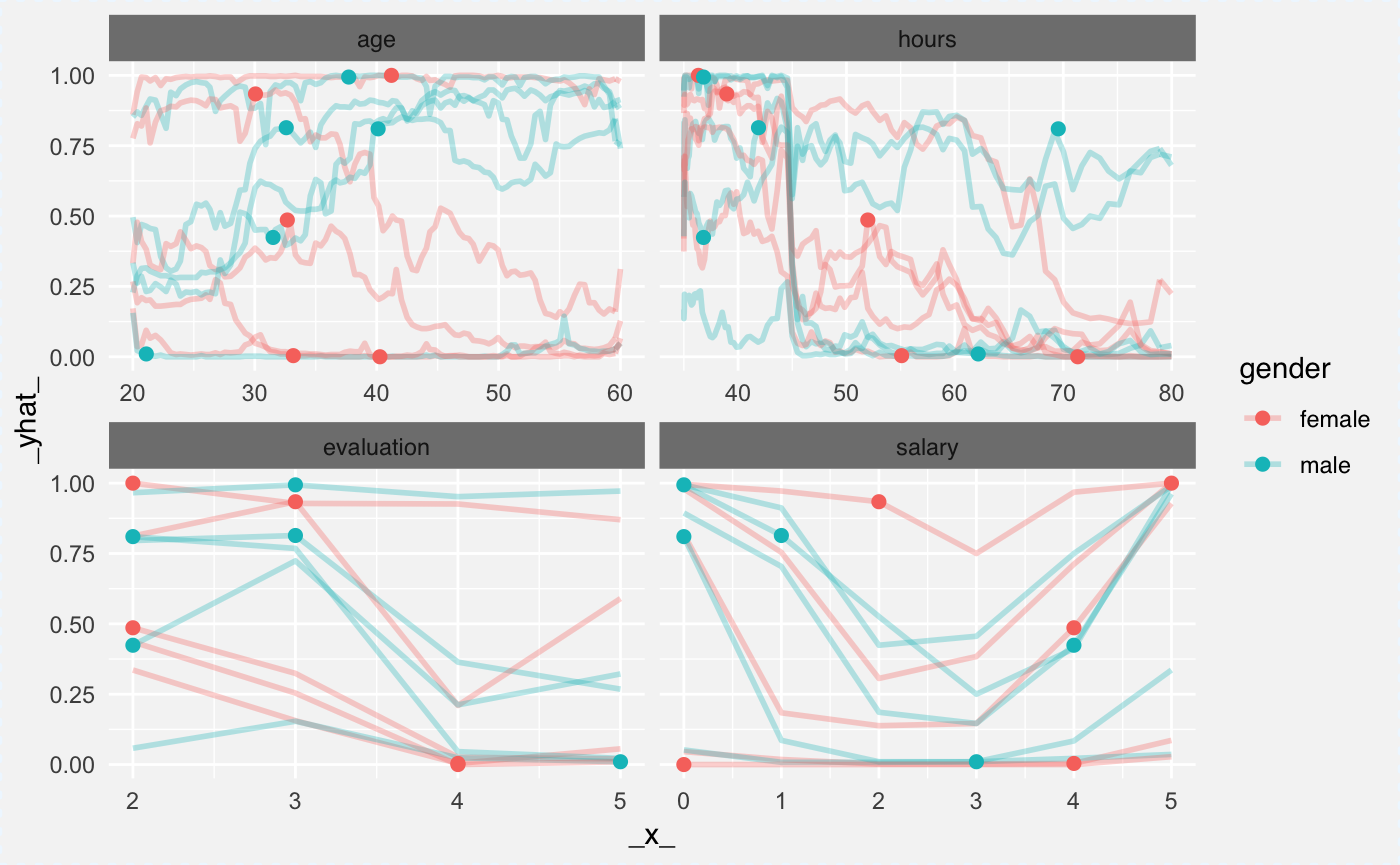
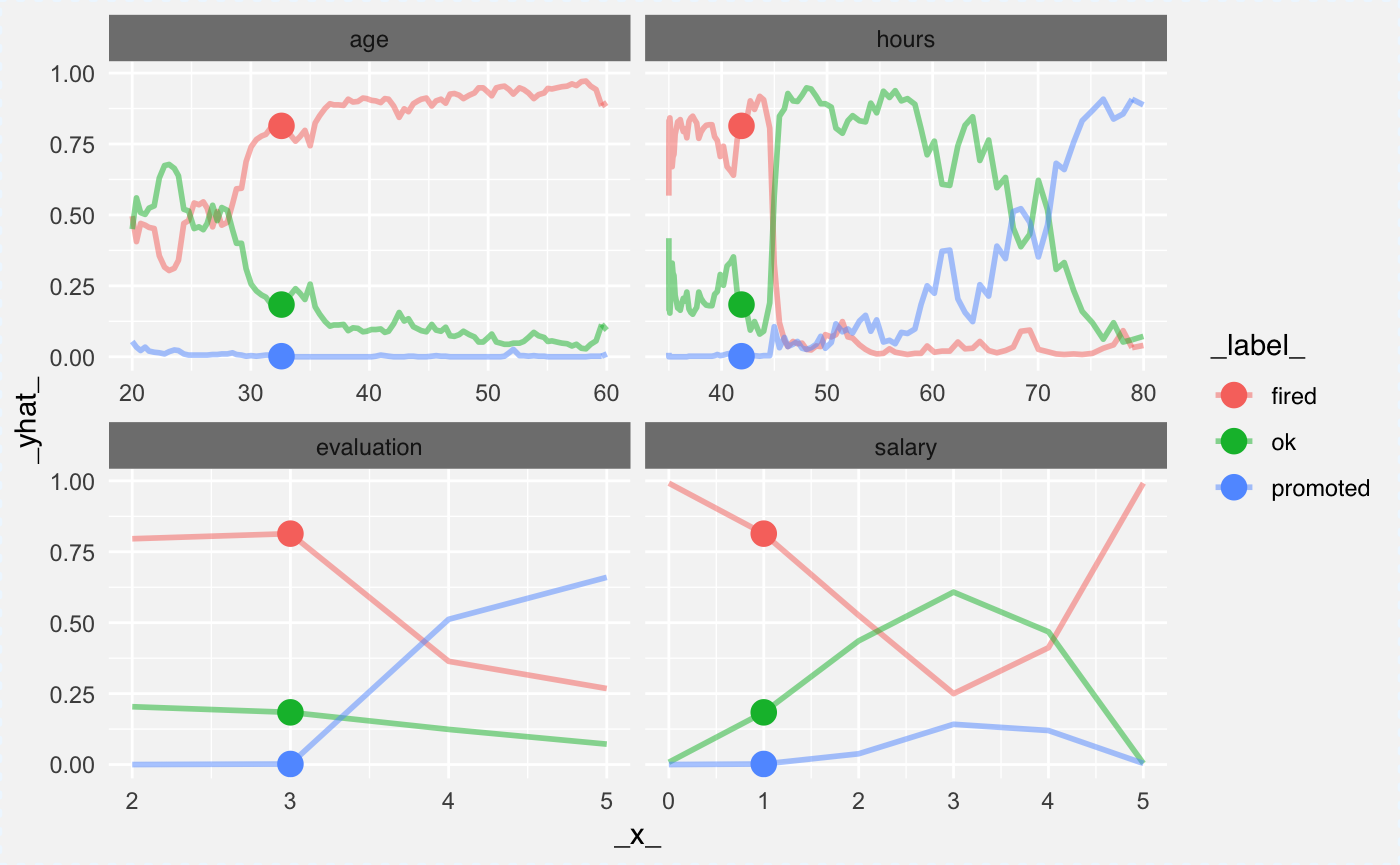
a nice story

diff --git a/docs/articles/ceteris_paribus_HR.html b/docs/articles/ceteris_paribus_HR.html
@@ -79,7 +79,7 @@
       <h1>Ceteris Paribus Plots for classification</h1>
                         <h4 class="author">Przemyslaw Biecek</h4>
             
-            <h4 class="date">2018-08-04</h4>
+            <h4 class="date">2018-08-05</h4>
       
       
       <div class="hidden name"><code>ceteris_paribus_HR.Rmd</code></div>
@@ -109,37 +109,54 @@
 <a class="sourceLine" id="cb3-5" data-line-number="5">model &lt;-<span class="st"> </span><span class="kw"><a href="http://www.rdocumentation.org/packages/randomForest/topics/randomForest">randomForest</a></span>(status <span class="op">~</span><span class="st"> </span>gender <span class="op">+</span><span class="st"> </span>age <span class="op">+</span><span class="st"> </span>hours <span class="op">+</span><span class="st"> </span>evaluation <span class="op">+</span><span class="st"> </span>salary, <span class="dt">data =</span> HR)</a></code></pre></div>
 <p>By default the <code><a href="http://www.rdocumentation.org/packages/randomForest/topics/predict.randomForest">predict.randomForest()</a></code> function returns classes not scores. This is why we use user-specific <code>predict()</code> function. Here we use two explainers, one will explainer the <code>fired</code> class while the second will take care about the <code>promoted</code> class.</p>
 <div class="sourceCode" id="cb4"><pre class="sourceCode r"><code class="sourceCode r"><a class="sourceLine" id="cb4-1" data-line-number="1">pred1 &lt;-<span class="st"> </span><span class="cf">function</span>(m, x)   <span class="kw">predict</span>(m, x, <span class="dt">type =</span> <span class="st">"prob"</span>)[,<span class="dv">1</span>]</a>
-<a class="sourceLine" id="cb4-2" data-line-number="2">pred3 &lt;-<span class="st"> </span><span class="cf">function</span>(m, x)   <span class="kw">predict</span>(m, x, <span class="dt">type =</span> <span class="st">"prob"</span>)[,<span class="dv">3</span>]</a>
-<a class="sourceLine" id="cb4-3" data-line-number="3"></a>
-<a class="sourceLine" id="cb4-4" data-line-number="4">explainer_rf_fired &lt;-<span class="st"> </span><span class="kw"><a href="http://www.rdocumentation.org/packages/DALEX/topics/explain">explain</a></span>(model, <span class="dt">data =</span> HR[,<span class="dv">1</span><span class="op">:</span><span class="dv">5</span>], </a>
-<a class="sourceLine" id="cb4-5" data-line-number="5">                              <span class="dt">y =</span> HR<span class="op">$</span>status <span class="op">==</span><span class="st"> "fired"</span>, </a>
-<a class="sourceLine" id="cb4-6" data-line-number="6">                              <span class="dt">predict_function =</span> pred1, <span class="dt">label =</span> <span class="st">"fired"</span>)</a>
-<a class="sourceLine" id="cb4-7" data-line-number="7">explainer_rf_promoted &lt;-<span class="st"> </span><span class="kw"><a href="http://www.rdocumentation.org/packages/DALEX/topics/explain">explain</a></span>(model, <span class="dt">data =</span> HR[,<span class="dv">1</span><span class="op">:</span><span class="dv">5</span>], </a>
-<a class="sourceLine" id="cb4-8" data-line-number="8">                               <span class="dt">y =</span> HR<span class="op">$</span>status <span class="op">==</span><span class="st"> "promoted"</span>, </a>
-<a class="sourceLine" id="cb4-9" data-line-number="9">                               <span class="dt">predict_function =</span> pred3, <span class="dt">label =</span> <span class="st">"promoted"</span>)</a></code></pre></div>
+<a class="sourceLine" id="cb4-2" data-line-number="2">pred2 &lt;-<span class="st"> </span><span class="cf">function</span>(m, x)   <span class="kw">predict</span>(m, x, <span class="dt">type =</span> <span class="st">"prob"</span>)[,<span class="dv">2</span>]</a>
+<a class="sourceLine" id="cb4-3" data-line-number="3">pred3 &lt;-<span class="st"> </span><span class="cf">function</span>(m, x)   <span class="kw">predict</span>(m, x, <span class="dt">type =</span> <span class="st">"prob"</span>)[,<span class="dv">3</span>]</a>
+<a class="sourceLine" id="cb4-4" data-line-number="4"></a>
+<a class="sourceLine" id="cb4-5" data-line-number="5">explainer_rf_fired &lt;-<span class="st"> </span><span class="kw"><a href="http://www.rdocumentation.org/packages/DALEX/topics/explain">explain</a></span>(model, <span class="dt">data =</span> HR[,<span class="dv">1</span><span class="op">:</span><span class="dv">5</span>], </a>
+<a class="sourceLine" id="cb4-6" data-line-number="6">                              <span class="dt">y =</span> HR<span class="op">$</span>status <span class="op">==</span><span class="st"> "fired"</span>, </a>
+<a class="sourceLine" id="cb4-7" data-line-number="7">                              <span class="dt">predict_function =</span> pred1, <span class="dt">label =</span> <span class="st">"fired"</span>)</a>
+<a class="sourceLine" id="cb4-8" data-line-number="8">explainer_rf_ok &lt;-<span class="st"> </span><span class="kw"><a href="http://www.rdocumentation.org/packages/DALEX/topics/explain">explain</a></span>(model, <span class="dt">data =</span> HR[,<span class="dv">1</span><span class="op">:</span><span class="dv">5</span>], </a>
+<a class="sourceLine" id="cb4-9" data-line-number="9">                              <span class="dt">y =</span> HR<span class="op">$</span>status <span class="op">==</span><span class="st"> "ok"</span>, </a>
+<a class="sourceLine" id="cb4-10" data-line-number="10">                              <span class="dt">predict_function =</span> pred2, <span class="dt">label =</span> <span class="st">"ok"</span>)</a>
+<a class="sourceLine" id="cb4-11" data-line-number="11">explainer_rf_promoted &lt;-<span class="st"> </span><span class="kw"><a href="http://www.rdocumentation.org/packages/DALEX/topics/explain">explain</a></span>(model, <span class="dt">data =</span> HR[,<span class="dv">1</span><span class="op">:</span><span class="dv">5</span>], </a>
+<a class="sourceLine" id="cb4-12" data-line-number="12">                               <span class="dt">y =</span> HR<span class="op">$</span>status <span class="op">==</span><span class="st"> "promoted"</span>, </a>
+<a class="sourceLine" id="cb4-13" data-line-number="13">                               <span class="dt">predict_function =</span> pred3, <span class="dt">label =</span> <span class="st">"promoted"</span>)</a></code></pre></div>
+</div>
+<div id="multiclass" class="section level1">
+<h1 class="hasAnchor">
+<a href="#multiclass" class="anchor"></a>Multiclass</h1>
+<p>Ceteris Paribus package can plot many explainers in a single panel. This will be useful for multiclass classification. You can simply create an explainer for each class and plot all these explainers together.</p>
+<div class="sourceCode" id="cb5"><pre class="sourceCode r"><code class="sourceCode r"><a class="sourceLine" id="cb5-1" data-line-number="1">cp_rf1 &lt;-<span class="st"> </span><span class="kw"><a href="../reference/ceteris_paribus.html">ceteris_paribus</a></span>(explainer_rf_fired, HR[<span class="dv">1</span>,])</a>
+<a class="sourceLine" id="cb5-2" data-line-number="2">cp_rf2 &lt;-<span class="st"> </span><span class="kw"><a href="../reference/ceteris_paribus.html">ceteris_paribus</a></span>(explainer_rf_ok, HR[<span class="dv">1</span>,])</a>
+<a class="sourceLine" id="cb5-3" data-line-number="3">cp_rf3 &lt;-<span class="st"> </span><span class="kw"><a href="../reference/ceteris_paribus.html">ceteris_paribus</a></span>(explainer_rf_promoted, HR[<span class="dv">1</span>,])</a>
+<a class="sourceLine" id="cb5-4" data-line-number="4"></a>
+<a class="sourceLine" id="cb5-5" data-line-number="5"><span class="kw">plot</span>(cp_rf1, cp_rf2, cp_rf3, </a>
+<a class="sourceLine" id="cb5-6" data-line-number="6">     <span class="dt">alpha =</span> <span class="fl">0.5</span>, <span class="dt">color=</span><span class="st">"_label_"</span>, <span class="dt">size_points =</span> <span class="dv">4</span>)</a></code></pre></div>
+<p><img src="ceteris_paribus_HR_files/figure-html/unnamed-chunk-4-1.png" width="700"></p>
 </div>
 <div id="individial-curves" class="section level1">
 <h1 class="hasAnchor">
 <a href="#individial-curves" class="anchor"></a>Individial curves</h1>
 <p>The <code>explainer_rf_fired</code> explainer is focused on class <code>fired</code>. Let’s see Ceteris Paribus profiles for first 10 individuals.</p>
 <p>They are colored with the <code>gender</code> variable. It’s useful since in the model there is an interaction between age and gender. Can you spot it?</p>
-<div class="sourceCode" id="cb5"><pre class="sourceCode r"><code class="sourceCode r"><a class="sourceLine" id="cb5-1" data-line-number="1">cp_rf_fired &lt;-<span class="st"> </span><span class="kw"><a href="../reference/ceteris_paribus.html">ceteris_paribus</a></span>(explainer_rf_fired, HR[<span class="dv">1</span><span class="op">:</span><span class="dv">10</span>,])</a>
-<a class="sourceLine" id="cb5-2" data-line-number="2"></a>
-<a class="sourceLine" id="cb5-3" data-line-number="3"><span class="kw">plot</span>(cp_rf_fired, <span class="dt">color =</span> <span class="st">"gender"</span>)</a></code></pre></div>
-<p><img src="ceteris_paribus_HR_files/figure-html/unnamed-chunk-4-1.png" width="700"></p>
+<div class="sourceCode" id="cb6"><pre class="sourceCode r"><code class="sourceCode r"><a class="sourceLine" id="cb6-1" data-line-number="1">cp_rf_fired &lt;-<span class="st"> </span><span class="kw"><a href="../reference/ceteris_paribus.html">ceteris_paribus</a></span>(explainer_rf_fired, HR[<span class="dv">1</span><span class="op">:</span><span class="dv">10</span>,])</a>
+<a class="sourceLine" id="cb6-2" data-line-number="2"></a>
+<a class="sourceLine" id="cb6-3" data-line-number="3"><span class="kw">plot</span>(cp_rf_fired, <span class="dt">color =</span> <span class="st">"gender"</span>)</a></code></pre></div>
+<p><img src="ceteris_paribus_HR_files/figure-html/unnamed-chunk-5-1.png" width="700"></p>
 </div>
 <div id="partial-dependency-plots" class="section level1">
 <h1 class="hasAnchor">
 <a href="#partial-dependency-plots" class="anchor"></a>Partial Dependency Plots</h1>
 <p>We can plot explainers for two classes (fired and promoted) in the same plot. Here is an example how to do this.</p>
 <p>The <code>hours</code> variable is an interesting one. People with low average working hours are on average more likely to be fired not promoted. Also the <code>salary</code> seems to be related with probability of being <code>fired</code> but not <code>promoted</code>.</p>
-<div class="sourceCode" id="cb6"><pre class="sourceCode r"><code class="sourceCode r"><a class="sourceLine" id="cb6-1" data-line-number="1">cp_rf1 &lt;-<span class="st"> </span><span class="kw"><a href="../reference/ceteris_paribus.html">ceteris_paribus</a></span>(explainer_rf_fired, HR[<span class="dv">1</span><span class="op">:</span><span class="dv">100</span>,])</a>
-<a class="sourceLine" id="cb6-2" data-line-number="2">cp_rf3 &lt;-<span class="st"> </span><span class="kw"><a href="../reference/ceteris_paribus.html">ceteris_paribus</a></span>(explainer_rf_promoted, HR[<span class="dv">1</span><span class="op">:</span><span class="dv">100</span>,])</a>
-<a class="sourceLine" id="cb6-3" data-line-number="3"></a>
-<a class="sourceLine" id="cb6-4" data-line-number="4"><span class="kw">plot</span>(cp_rf1, cp_rf3, </a>
-<a class="sourceLine" id="cb6-5" data-line-number="5">     <span class="dt">aggregate_profiles =</span> mean, </a>
-<a class="sourceLine" id="cb6-6" data-line-number="6">     <span class="dt">alpha =</span> <span class="dv">1</span>, <span class="dt">show_observations =</span> <span class="ot">FALSE</span>, <span class="dt">color=</span><span class="st">"_label_"</span>)</a></code></pre></div>
-<p><img src="ceteris_paribus_HR_files/figure-html/unnamed-chunk-5-1.png" width="700"></p>
+<div class="sourceCode" id="cb7"><pre class="sourceCode r"><code class="sourceCode r"><a class="sourceLine" id="cb7-1" data-line-number="1">cp_rf1 &lt;-<span class="st"> </span><span class="kw"><a href="../reference/ceteris_paribus.html">ceteris_paribus</a></span>(explainer_rf_fired, HR[<span class="dv">1</span><span class="op">:</span><span class="dv">100</span>,])</a>
+<a class="sourceLine" id="cb7-2" data-line-number="2">cp_rf2 &lt;-<span class="st"> </span><span class="kw"><a href="../reference/ceteris_paribus.html">ceteris_paribus</a></span>(explainer_rf_ok, HR[<span class="dv">1</span><span class="op">:</span><span class="dv">100</span>,])</a>
+<a class="sourceLine" id="cb7-3" data-line-number="3">cp_rf3 &lt;-<span class="st"> </span><span class="kw"><a href="../reference/ceteris_paribus.html">ceteris_paribus</a></span>(explainer_rf_promoted, HR[<span class="dv">1</span><span class="op">:</span><span class="dv">100</span>,])</a>
+<a class="sourceLine" id="cb7-4" data-line-number="4"></a>
+<a class="sourceLine" id="cb7-5" data-line-number="5"><span class="kw">plot</span>(cp_rf1, cp_rf2, cp_rf3, </a>
+<a class="sourceLine" id="cb7-6" data-line-number="6">     <span class="dt">aggregate_profiles =</span> mean, </a>
+<a class="sourceLine" id="cb7-7" data-line-number="7">     <span class="dt">alpha =</span> <span class="dv">1</span>, <span class="dt">show_observations =</span> <span class="ot">FALSE</span>, <span class="dt">color=</span><span class="st">"_label_"</span>)</a></code></pre></div>
+<p><img src="ceteris_paribus_HR_files/figure-html/unnamed-chunk-6-1.png" width="700"></p>
 </div>
 <div id="partial-dependency-plots-for-groups-of-obervations" class="section level1">
 <h1 class="hasAnchor">
@@ -147,22 +164,22 @@
 <p>Here we will compare the explainer (probability of being fired) across two genders. We know that there is an interaction between <code>gender</code> and <code>age</code> variables. It will be easy to read this interaction from the plot.</p>
 <p>In the plot below we will see that both genders behave in all panels except age. For the <code>age</code> variable it looks like younger woman are more likely to be fired while for males the older age is a risk factor.</p>
 <p>Is it because employers are afraid of maternity leaves? Maybe, but please note, that this dataset is an artificial/simulated one.</p>
-<div class="sourceCode" id="cb7"><pre class="sourceCode r"><code class="sourceCode r"><a class="sourceLine" id="cb7-1" data-line-number="1">cp_rfF &lt;-<span class="st"> </span><span class="kw"><a href="../reference/ceteris_paribus.html">ceteris_paribus</a></span>(explainer_rf_fired, </a>
-<a class="sourceLine" id="cb7-2" data-line-number="2">                          HR[<span class="kw">which</span>(HR<span class="op">$</span>gender <span class="op">==</span><span class="st"> "female"</span>)[<span class="dv">1</span><span class="op">:</span><span class="dv">100</span>],])</a>
-<a class="sourceLine" id="cb7-3" data-line-number="3">cp_rfF<span class="op">$</span><span class="st">`</span><span class="dt">_label_</span><span class="st">`</span> =<span class="st"> "Fired Female"</span></a>
-<a class="sourceLine" id="cb7-4" data-line-number="4">cp_rfM &lt;-<span class="st"> </span><span class="kw"><a href="../reference/ceteris_paribus.html">ceteris_paribus</a></span>(explainer_rf_fired, </a>
-<a class="sourceLine" id="cb7-5" data-line-number="5">                          HR[<span class="kw">which</span>(HR<span class="op">$</span>gender <span class="op">==</span><span class="st"> "male"</span>)[<span class="dv">1</span><span class="op">:</span><span class="dv">100</span>],])</a>
-<a class="sourceLine" id="cb7-6" data-line-number="6">cp_rfM<span class="op">$</span><span class="st">`</span><span class="dt">_label_</span><span class="st">`</span> =<span class="st"> "Fired Male"</span></a>
-<a class="sourceLine" id="cb7-7" data-line-number="7"></a>
-<a class="sourceLine" id="cb7-8" data-line-number="8"><span class="kw">plot</span>(cp_rfM, cp_rfF, </a>
-<a class="sourceLine" id="cb7-9" data-line-number="9">     <span class="dt">aggregate_profiles =</span> mean, </a>
-<a class="sourceLine" id="cb7-10" data-line-number="10">     <span class="dt">alpha =</span> <span class="dv">1</span>, <span class="dt">show_observations =</span> <span class="ot">FALSE</span>, <span class="dt">color=</span><span class="st">"_label_"</span>)</a></code></pre></div>
-<p><img src="ceteris_paribus_HR_files/figure-html/unnamed-chunk-6-1.png" width="700"></p>
+<div class="sourceCode" id="cb8"><pre class="sourceCode r"><code class="sourceCode r"><a class="sourceLine" id="cb8-1" data-line-number="1">cp_rfF &lt;-<span class="st"> </span><span class="kw"><a href="../reference/ceteris_paribus.html">ceteris_paribus</a></span>(explainer_rf_fired, </a>
+<a class="sourceLine" id="cb8-2" data-line-number="2">                          HR[<span class="kw">which</span>(HR<span class="op">$</span>gender <span class="op">==</span><span class="st"> "female"</span>)[<span class="dv">1</span><span class="op">:</span><span class="dv">100</span>],])</a>
+<a class="sourceLine" id="cb8-3" data-line-number="3">cp_rfF<span class="op">$</span><span class="st">`</span><span class="dt">_label_</span><span class="st">`</span> =<span class="st"> "Fired Female"</span></a>
+<a class="sourceLine" id="cb8-4" data-line-number="4">cp_rfM &lt;-<span class="st"> </span><span class="kw"><a href="../reference/ceteris_paribus.html">ceteris_paribus</a></span>(explainer_rf_fired, </a>
+<a class="sourceLine" id="cb8-5" data-line-number="5">                          HR[<span class="kw">which</span>(HR<span class="op">$</span>gender <span class="op">==</span><span class="st"> "male"</span>)[<span class="dv">1</span><span class="op">:</span><span class="dv">100</span>],])</a>
+<a class="sourceLine" id="cb8-6" data-line-number="6">cp_rfM<span class="op">$</span><span class="st">`</span><span class="dt">_label_</span><span class="st">`</span> =<span class="st"> "Fired Male"</span></a>
+<a class="sourceLine" id="cb8-7" data-line-number="7"></a>
+<a class="sourceLine" id="cb8-8" data-line-number="8"><span class="kw">plot</span>(cp_rfM, cp_rfF, </a>
+<a class="sourceLine" id="cb8-9" data-line-number="9">     <span class="dt">aggregate_profiles =</span> mean, </a>
+<a class="sourceLine" id="cb8-10" data-line-number="10">     <span class="dt">alpha =</span> <span class="dv">1</span>, <span class="dt">show_observations =</span> <span class="ot">FALSE</span>, <span class="dt">color=</span><span class="st">"_label_"</span>)</a></code></pre></div>
+<p><img src="ceteris_paribus_HR_files/figure-html/unnamed-chunk-7-1.png" width="700"></p>
 </div>
 <div id="session-info" class="section level1">
 <h1 class="hasAnchor">
 <a href="#session-info" class="anchor"></a>Session info</h1>
-<div class="sourceCode" id="cb8"><pre class="sourceCode r"><code class="sourceCode r"><a class="sourceLine" id="cb8-1" data-line-number="1">devtools<span class="op">::</span><span class="kw"><a href="http://www.rdocumentation.org/packages/devtools/topics/session_info">session_info</a></span>()</a></code></pre></div>
+<div class="sourceCode" id="cb9"><pre class="sourceCode r"><code class="sourceCode r"><a class="sourceLine" id="cb9-1" data-line-number="1">devtools<span class="op">::</span><span class="kw"><a href="http://www.rdocumentation.org/packages/devtools/topics/session_info">session_info</a></span>()</a></code></pre></div>
 <pre><code>##  setting  value                       
 ##  version  R version 3.5.0 (2018-04-23)
 ##  system   x86_64, darwin15.6.0        
@@ -170,7 +187,7 @@
 ##  language (EN)                        
 ##  collate  en_US.UTF-8                 
 ##  tz       Europe/Warsaw               
-##  date     2018-08-04                  
+##  date     2018-08-05                  
 ## 
 ##  package        * version date       source                        
 ##  agricolae        1.2-8   2017-09-12 CRAN (R 3.5.0)                
@@ -280,6 +297,7 @@
 <a href="#tocnav" class="anchor"></a>Contents</h2>
       <ul class="nav nav-pills nav-stacked">
 <li><a href="#introduction">Introduction</a></li>
+      <li><a href="#multiclass">Multiclass</a></li>
       <li><a href="#individial-curves">Individial curves</a></li>
       <li><a href="#partial-dependency-plots">Partial Dependency Plots</a></li>
       <li><a href="#partial-dependency-plots-for-groups-of-obervations">Partial Dependency Plots for groups of obervations</a></li>

diff --git a/docs/index.html b/docs/index.html
@@ -84,6 +84,7 @@
 <p>The <a href="https://github.com/pbiecek/ceterisParibus">ceterisParibus</a> Plots supplement the <a href="https://github.com/pbiecek/breakDown">breakDown Plots</a> that are designed to attribute features into parts of a single prediction.</p>
 <p>Imagine a scenario in which a client gets low credit score and is wondering why the score is so low. <em>What can I do to get a higher score?</em></p>
 <p>Ceteris Paribus Plots show possible scenarios for model predictions allowing for changes in a single dimension keeping all other features constant (the <em>ceteris paribus</em> principle).</p>
+<p>Find more about Ceteris Paribus Profiles in this <a href="https://pbiecek.github.io/DALEX_docs/5-ceterisParibus.html#ceterisParibus">Gentle introduction to DALEX with examples</a>.</p>
 <div id="installation" class="section level2">
 <h2 class="hasAnchor">
 <a href="#installation" class="anchor"></a>Installation</h2>

diff --git a/docs/articles/coral.html b/docs/articles/coral.html
@@ -79,7 +79,7 @@
       <h1>Local Fit Plots / Wangkardu Explanations</h1>
                         <h4 class="author">Przemyslaw Biecek</h4>
             
-            <h4 class="date">2018-08-04</h4>
+            <h4 class="date">2018-08-05</h4>
       
       
       <div class="hidden name"><code>coral.Rmd</code></div>

diff --git a/docs/articles/ceteris_paribus.html b/docs/articles/ceteris_paribus.html
@@ -79,7 +79,7 @@
       <h1>Ceteris Paribus Plots</h1>
                         <h4 class="author">Przemyslaw Biecek</h4>
             
-            <h4 class="date">2018-08-04</h4>
+            <h4 class="date">2018-08-05</h4>
       
       
       <div class="hidden name"><code>ceteris_paribus.Rmd</code></div>

diff --git a/docs/articles/whatIf1d.html b/docs/articles/whatIf1d.html
@@ -79,7 +79,7 @@
       <h1>What If Plots</h1>
                         <h4 class="author">Przemyslaw Biecek</h4>
             
-            <h4 class="date">2018-08-04</h4>
+            <h4 class="date">2018-08-05</h4>
       
       
       <div class="hidden name"><code>whatIf1d.Rmd</code></div>
